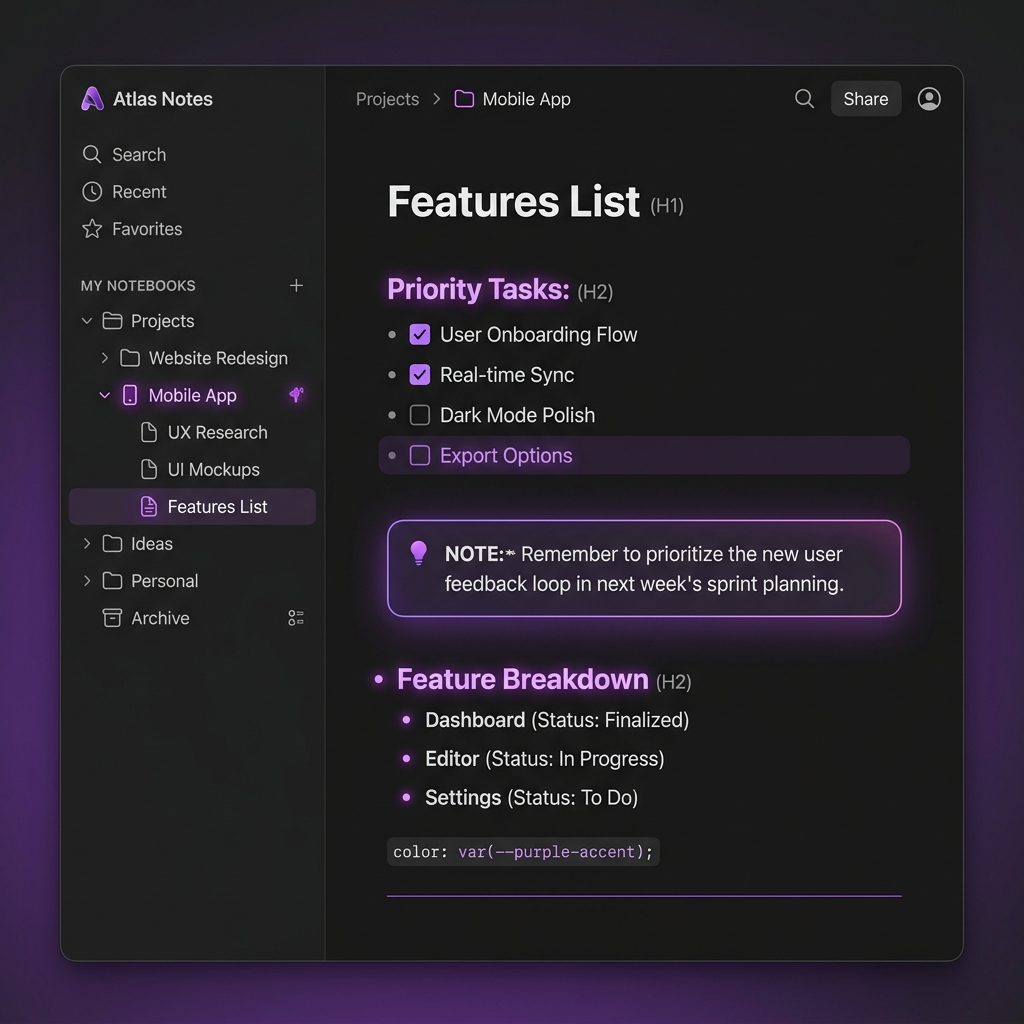
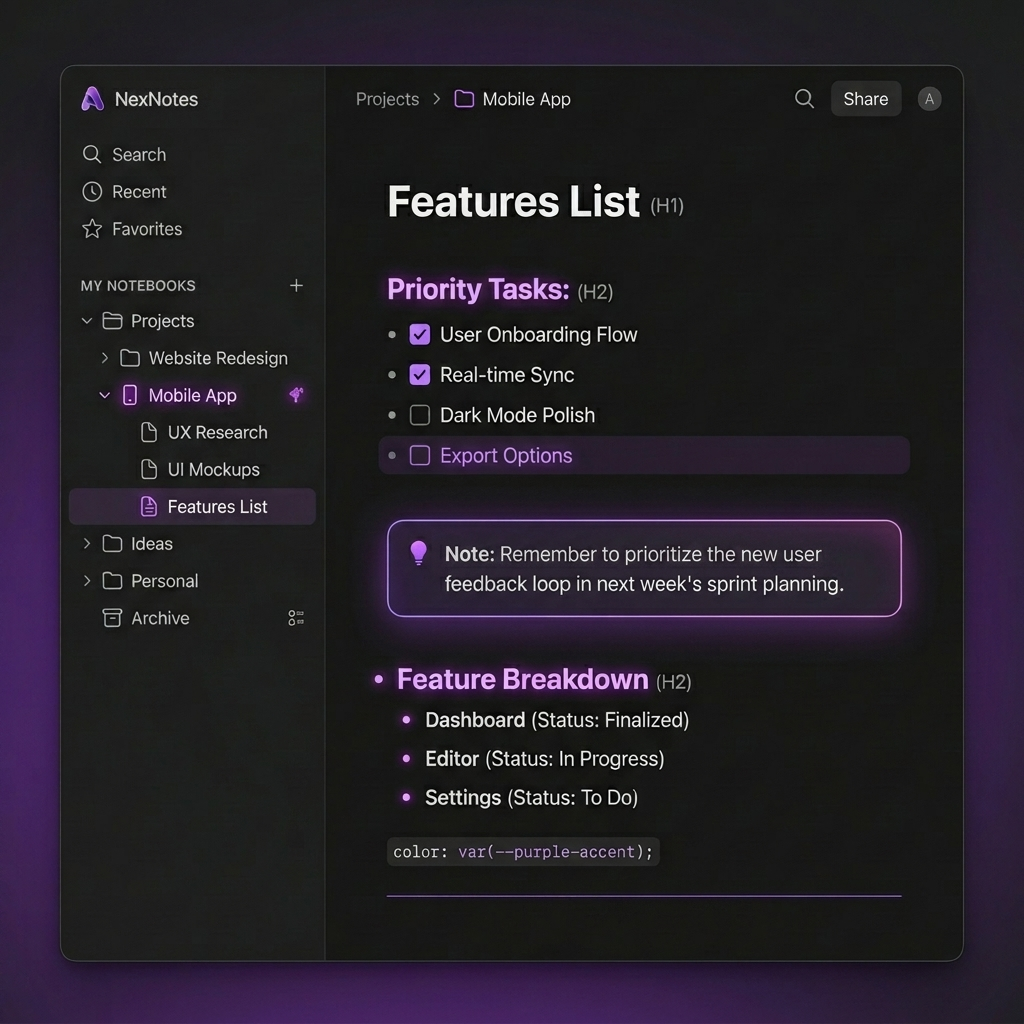
style(landing): update hero mockup to NexNotes, fix typography & styling bugs

Changed region(s): [[0.4375, 0.5312, 0.8125, 0.5625], [0.125, 0.0938, 0.2188, 0.125], [0.875, 0.0938, 0.9375, 0.125]]

diff --git a/app/(site)/page.tsx b/app/(site)/page.tsx
@@ -51,21 +51,7 @@ const Homepage = async() => {
           active:scale-[0.98]
         "
         >
-          <Button
-            variant="secondary"
-            className=" w-full
-            rounded-[16px]
-            p-6
-            text-2xl
-            dark:bg-black
-            cursor-pointer
-            border-none
-            text-white
-            font-bold
-          "
-          >
-            Get NexNote Free
-          </Button>
+          
         </div>
         <div
           className="md:mt-[-50px]
@@ -102,7 +88,7 @@ const Homepage = async() => {
         <div
           className="overflow-hidden
           flex
-          after:content['']
+          after:content-['']
           after:dark:from-brand-dark
           after:to-transparent
           after:from-background
@@ -114,7 +100,7 @@ const Homepage = async() => {
           after:z-10
           after:absolute
 
-          before:content['']
+          before:content-['']
           before:dark:from-brand-dark
           before:to-transparent
           before:from-background
@@ -246,7 +232,7 @@ const Homepage = async() => {
                 <CustomCard
                   key={testimonial.name}
                   className="w-[500px]
-                  shrink-0s
+                  shrink-0
                   rounded-xl
                   dark:bg-gradient-to-t
                   dark:from-border dark:to-background

diff --git a/app/(auth)/login/page.tsx b/app/(auth)/login/page.tsx
@@ -115,7 +115,7 @@ const LoginPage = async() => {
       {/* Floating Bottom Copyright */}
       <div className="absolute bottom-6 left-0 right-0 z-10">
         <p className="text-center text-neutral-600 text-xs tracking-wider">
-          © 2025 NexNote. All rights reserved.
+          © 2026 NexNote. All rights reserved.
         </p>
       </div>
     </div>

diff --git a/app/layout.tsx b/app/layout.tsx
@@ -14,7 +14,7 @@ const geistMono = Geist_Mono({
 });
 
 export const metadata: Metadata = {
-  title: "NexNote – Supreme Note-Taking Platform",
+  title: "NexNote Note-Taking Platform",
   description:
     "NexNote is a powerful, Notion-inspired note-taking platform. Write, organize, and collaborate with rich text, AI assistance, and real-time collaboration.",
   icons: {